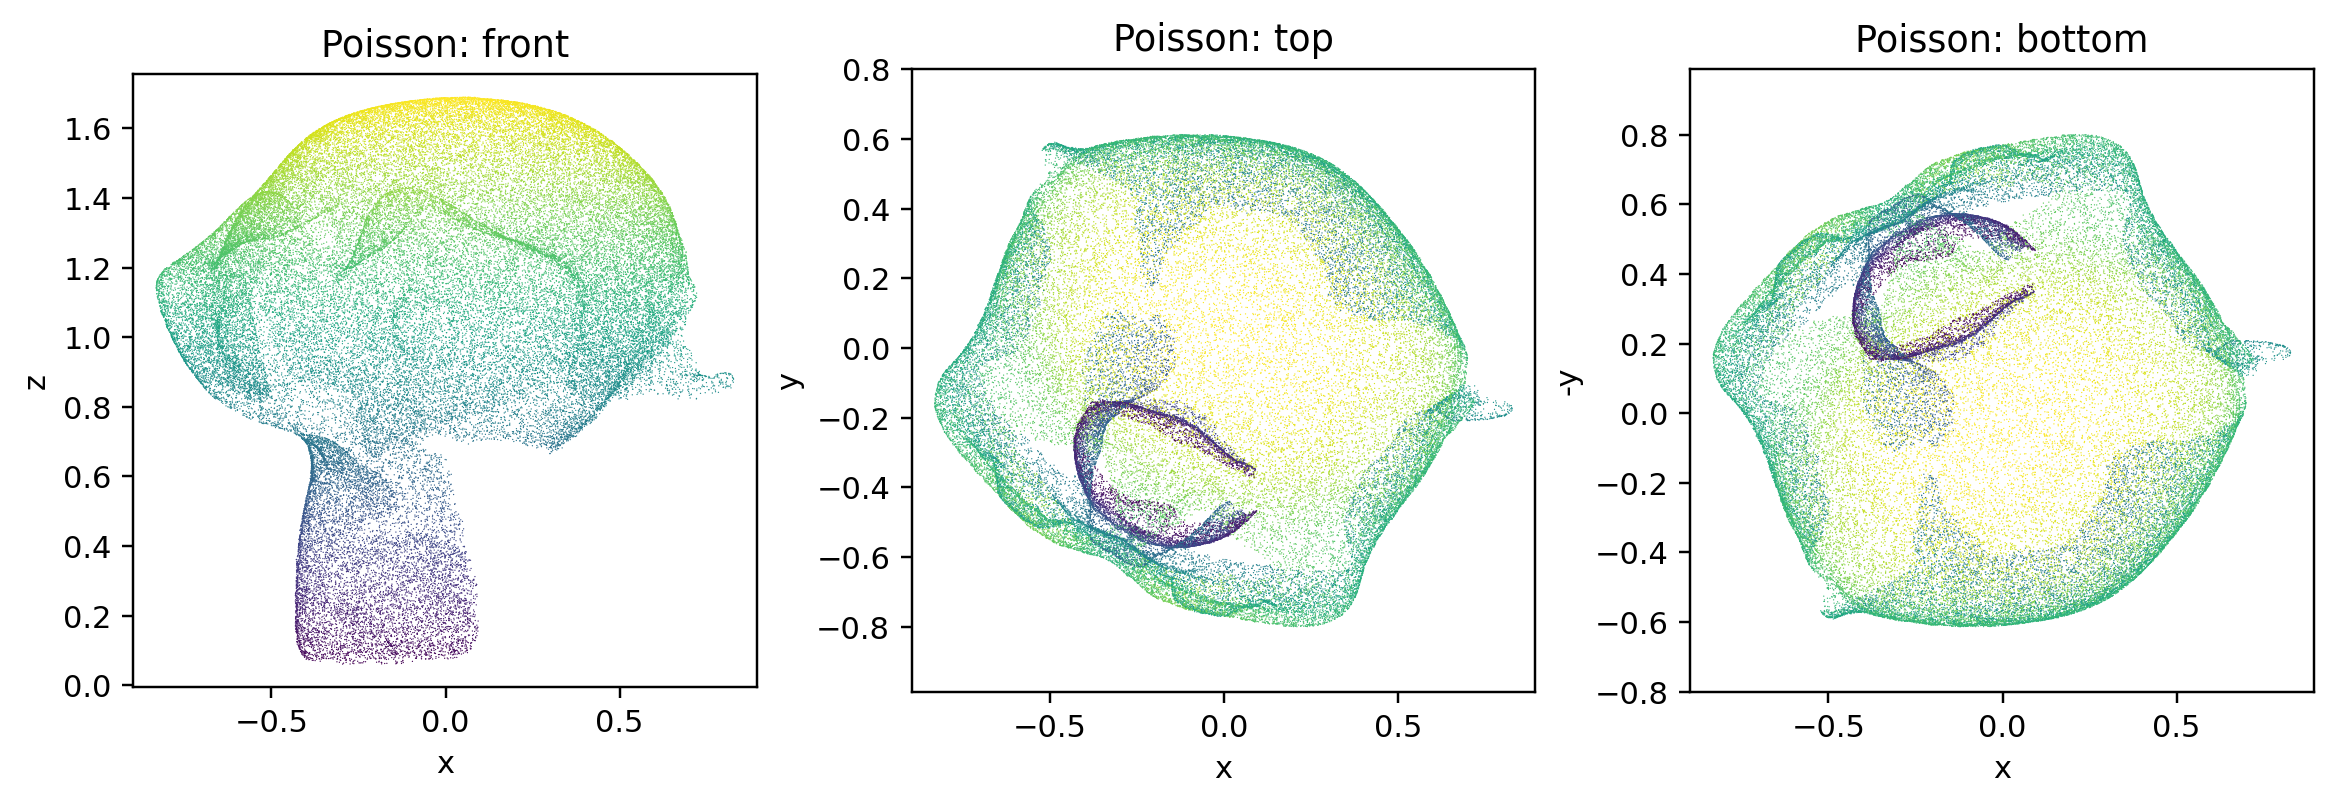
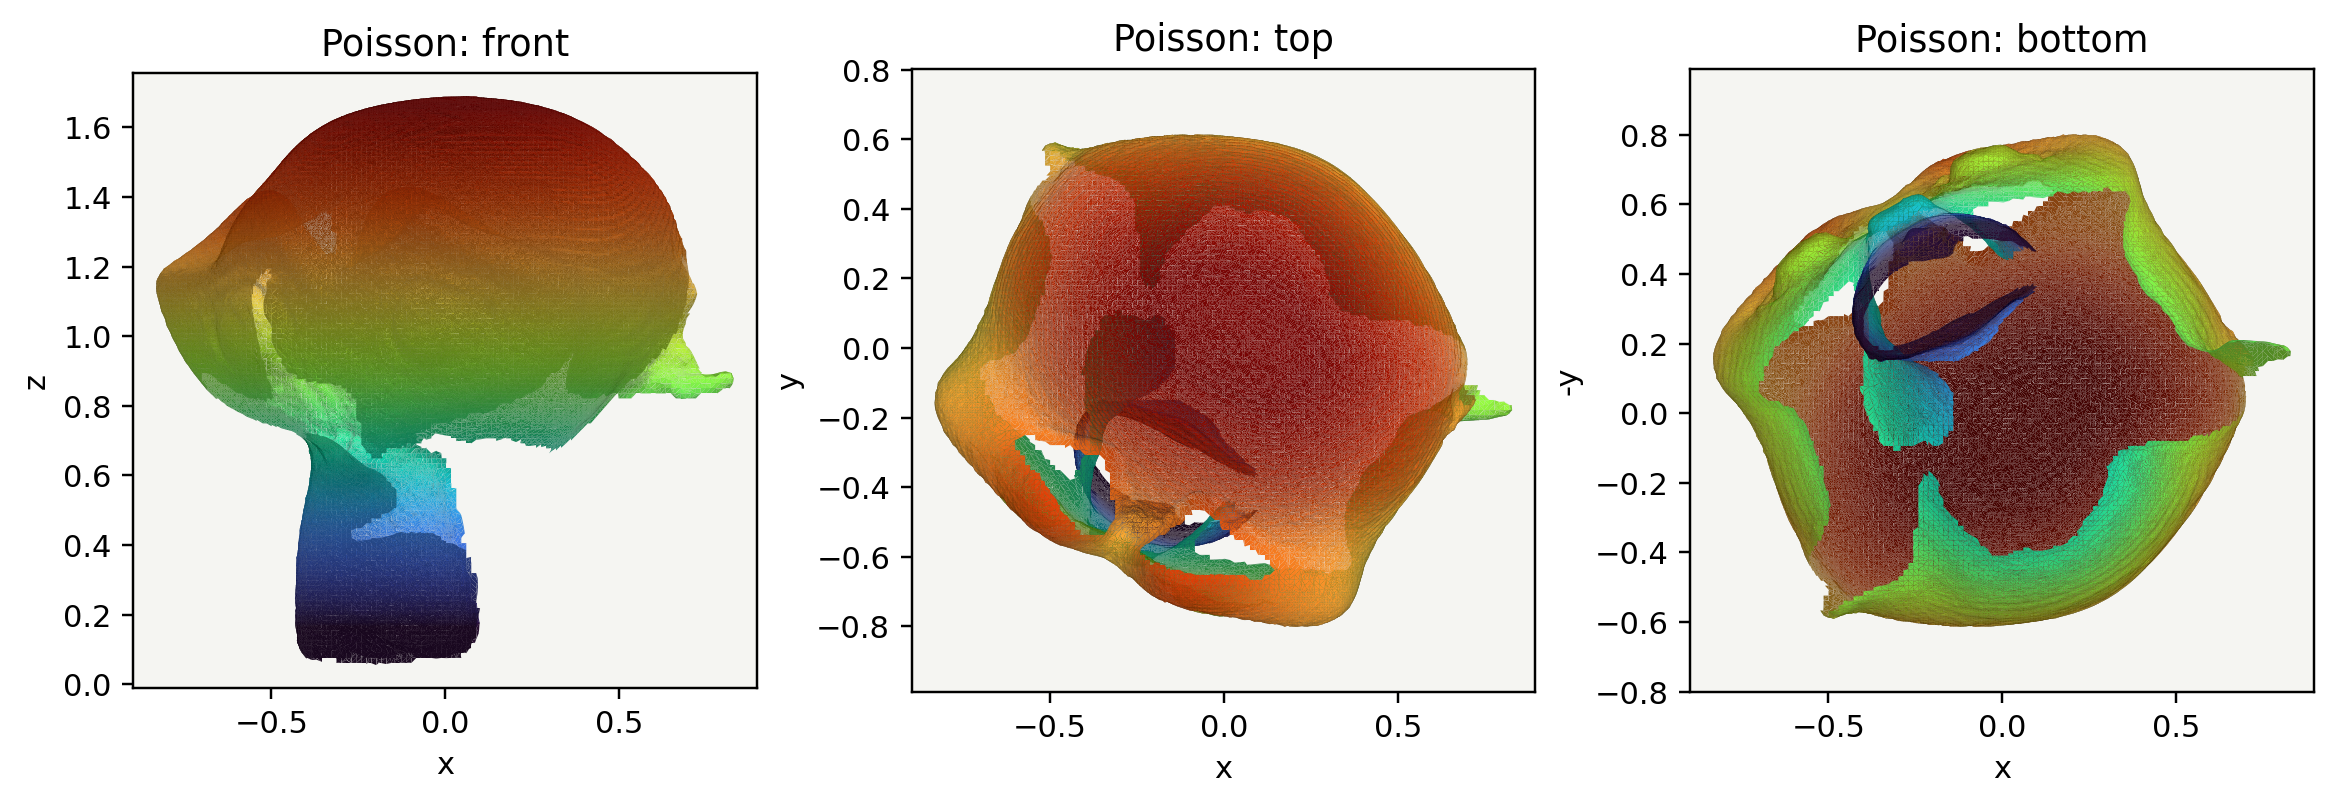
feat: upd script for views

diff --git a/scripts/generate_views.py b/scripts/generate_views.py
@@ -10,6 +10,7 @@ if str(REPO_ROOT) not in sys.path:
 import matplotlib.pyplot as plt
 import numpy as np
 import open3d as o3d
+from matplotlib.collections import PolyCollection
 
 from reconstruct import apply_config_defaults
 
@@ -52,16 +53,27 @@ def parse_args():
         help="Directory for PNGs. Defaults to <output_dir>/mesh_views_<dataset>.",
     )
     parser.add_argument(
-        "--points",
+        "--max-faces",
         type=int,
-        default=60000,
-        help="Number of mesh surface samples used for each render.",
+        default=200000,
+        help="Simplify meshes above this triangle count before rendering. Use 0 to disable.",
     )
     parser.add_argument(
         "--dpi",
         type=int,
         default=220,
         help="Output image DPI.",
+    )
+    parser.add_argument(
+        "--color-by",
+        choices=["height", "view-depth", "normal"],
+        default="height",
+        help="How to color mesh faces.",
+    )
+    parser.add_argument(
+        "--cmap",
+        default="turbo",
+        help="Matplotlib colormap used for height/view-depth coloring.",
     )
     parser.add_argument(
         "--separate-views",
@@ -77,16 +89,23 @@ def method_mesh_path(paths, method):
     return base.with_name(base.stem + suffix + base.suffix)
 
 
-def sample_mesh_points(mesh_path, count):
+def load_mesh_arrays(mesh_path, max_faces):
     mesh = o3d.io.read_triangle_mesh(str(mesh_path))
     if mesh.is_empty():
         raise ValueError(f"Could not read a mesh from {mesh_path}")
     if not mesh.has_triangles():
         raise ValueError(f"Mesh has no triangles: {mesh_path}")
 
+    if max_faces > 0 and len(mesh.triangles) > max_faces:
+        mesh = mesh.simplify_quadric_decimation(target_number_of_triangles=max_faces)
+
     mesh.compute_vertex_normals()
-    sampled = mesh.sample_points_uniformly(number_of_points=count)
-    return np.asarray(sampled.points, dtype=np.float64)
+    mesh.compute_triangle_normals()
+    return (
+        np.asarray(mesh.vertices, dtype=np.float64),
+        np.asarray(mesh.triangles, dtype=np.int64),
+        np.asarray(mesh.triangle_normals, dtype=np.float64),
+    )
 
 
 def equal_limits(values, pad=0.04):
@@ -101,10 +120,10 @@ def equal_limits(values, pad=0.04):
     return (lo - margin, hi + margin)
 
 
-def view_specs(points):
-    x_limits = equal_limits(points[:, 0])
-    y_limits = equal_limits(points[:, 1])
-    z_limits = equal_limits(points[:, 2])
+def view_specs(vertices):
+    x_limits = equal_limits(vertices[:, 0])
+    y_limits = equal_limits(vertices[:, 1])
+    z_limits = equal_limits(vertices[:, 2])
     xy_span = max(x_limits[1] - x_limits[0], y_limits[1] - y_limits[0])
     xy_center = (
         (x_limits[0] + x_limits[1]) * 0.5,
@@ -116,14 +135,97 @@ def view_specs(points):
     )
     bottom_y_limits = (-xy_limits[1][1], -xy_limits[1][0])
     return [
-        ("front", points[:, 0], points[:, 2], "x", "z", x_limits, z_limits),
-        ("top", points[:, 0], points[:, 1], "x", "y", xy_limits[0], xy_limits[1]),
-        ("bottom", points[:, 0], -points[:, 1], "x", "-y", xy_limits[0], bottom_y_limits),
+        ("front", "x", "z", x_limits, z_limits),
+        ("top", "x", "y", xy_limits[0], xy_limits[1]),
+        ("bottom", "x", "-y", xy_limits[0], bottom_y_limits),
     ]
 
 
-def draw_view(ax, title, x_values, y_values, color_values, x_label, y_label, x_lim, y_lim):
-    ax.scatter(x_values, y_values, c=color_values, s=0.18, cmap="viridis", linewidths=0)
+def project_vertices(vertices, view_name):
+    if view_name == "front":
+        return vertices[:, 0], vertices[:, 2], vertices[:, 1]
+    if view_name == "top":
+        return vertices[:, 0], vertices[:, 1], vertices[:, 2]
+    if view_name == "bottom":
+        return vertices[:, 0], -vertices[:, 1], -vertices[:, 2]
+    raise ValueError(f"Unknown view: {view_name}")
+
+
+def view_light_direction(view_name):
+    if view_name == "front":
+        return np.array([0.2, -0.7, 0.7], dtype=np.float64)
+    if view_name == "top":
+        return np.array([0.2, 0.2, 1.0], dtype=np.float64)
+    if view_name == "bottom":
+        return np.array([0.2, -0.2, -1.0], dtype=np.float64)
+    raise ValueError(f"Unknown view: {view_name}")
+
+
+def normalized(values):
+    lo, hi = np.percentile(values, [2.0, 98.0])
+    if hi <= lo:
+        lo = float(np.min(values))
+        hi = float(np.max(values))
+    if hi <= lo:
+        return np.full_like(values, 0.5, dtype=np.float64)
+    return np.clip((values - lo) / (hi - lo), 0.0, 1.0)
+
+
+def get_cmap(name):
+    try:
+        return plt.get_cmap(name)
+    except ValueError:
+        return plt.get_cmap("viridis")
+
+
+def face_colors(vertices, triangles, normals, depths, view_name, color_by, cmap_name):
+    light = view_light_direction(view_name)
+    light /= np.linalg.norm(light)
+    diffuse = np.clip(normals @ light, 0.0, 1.0)
+    shade = 0.55 + 0.45 * diffuse
+
+    if color_by == "normal":
+        colors = np.abs(normals)
+    else:
+        if color_by == "view-depth":
+            scalars = depths
+        else:
+            scalars = np.mean(vertices[:, 2][triangles], axis=1)
+        colors = get_cmap(cmap_name)(normalized(scalars))[:, :3]
+
+    colors *= shade[:, None]
+    return np.clip(colors, 0.0, 1.0)
+
+
+def draw_view(
+    ax,
+    title,
+    vertices,
+    triangles,
+    normals,
+    view_name,
+    x_label,
+    y_label,
+    x_lim,
+    y_lim,
+    color_by,
+    cmap_name,
+):
+    x_values, y_values, depths = project_vertices(vertices, view_name)
+    face_depths = np.mean(depths[triangles], axis=1)
+    order = np.argsort(face_depths)
+    polygons = np.stack((x_values[triangles], y_values[triangles]), axis=-1)[order]
+    colors = face_colors(vertices, triangles, normals, face_depths, view_name, color_by, cmap_name)[order]
+
+    collection = PolyCollection(
+        polygons,
+        facecolors=colors,
+        edgecolors=(0.02, 0.02, 0.02, 0.08),
+        linewidths=0.05,
+        closed=True,
+    )
+    ax.add_collection(collection)
+    ax.set_facecolor("#f5f5f2")
     ax.set_title(title)
     ax.set_xlabel(x_label)
     ax.set_ylabel(y_label)
@@ -133,41 +235,65 @@ def draw_view(ax, title, x_values, y_values, color_values, x_label, y_label, x_l
     ax.grid(False)
 
 
-def save_method_panel(points, method_label, output_path, dpi):
-    specs = view_specs(points)
+def save_method_panel(
+    vertices,
+    triangles,
+    normals,
+    method_label,
+    output_path,
+    dpi,
+    color_by,
+    cmap_name,
+):
+    specs = view_specs(vertices)
     fig, axes = plt.subplots(1, 3, figsize=(10.5, 3.6), constrained_layout=True)
-    color_values = points[:, 2]
-    for ax, (view_name, x_values, y_values, x_label, y_label, x_lim, y_lim) in zip(axes, specs):
+    for ax, (view_name, x_label, y_label, x_lim, y_lim) in zip(axes, specs):
         draw_view(
             ax,
             f"{method_label}: {view_name}",
-            x_values,
-            y_values,
-            color_values,
+            vertices,
+            triangles,
+            normals,
+            view_name,
             x_label,
             y_label,
             x_lim,
             y_lim,
+            color_by,
+            cmap_name,
         )
     fig.savefig(output_path, dpi=dpi, bbox_inches="tight")
     plt.close(fig)
 
 
-def save_separate_views(points, method_label, output_dir, dataset_name, method, dpi):
-    specs = view_specs(points)
-    color_values = points[:, 2]
-    for view_name, x_values, y_values, x_label, y_label, x_lim, y_lim in specs:
+def save_separate_views(
+    vertices,
+    triangles,
+    normals,
+    method_label,
+    output_dir,
+    dataset_name,
+    method,
+    dpi,
+    color_by,
+    cmap_name,
+):
+    specs = view_specs(vertices)
+    for view_name, x_label, y_label, x_lim, y_lim in specs:
         fig, ax = plt.subplots(figsize=(4.2, 4.2), constrained_layout=True)
         draw_view(
             ax,
             f"{method_label}: {view_name}",
-            x_values,
-            y_values,
-            color_values,
+            vertices,
+            triangles,
+            normals,
+            view_name,
             x_label,
             y_label,
             x_lim,
             y_lim,
+            color_by,
+            cmap_name,
         )
         out_path = output_dir / f"{dataset_name}_{method}_{view_name}.png"
         fig.savefig(out_path, dpi=dpi, bbox_inches="tight")
@@ -190,14 +316,34 @@ def render_dataset(root_config, dataset_name, args):
             print(f"{method}: missing mesh, skipping: {mesh_path}")
             continue
 
-        points = sample_mesh_points(mesh_path, args.points)
+        vertices, triangles, normals = load_mesh_arrays(mesh_path, args.max_faces)
         label = METHOD_LABELS[method]
         out_path = output_dir / f"{dataset_name}_{method}_front_top_bottom.png"
-        save_method_panel(points, label, out_path, args.dpi)
+        save_method_panel(
+            vertices,
+            triangles,
+            normals,
+            label,
+            out_path,
+            args.dpi,
+            args.color_by,
+            args.cmap,
+        )
         print(f"saved: {out_path}")
 
         if args.separate_views:
-            save_separate_views(points, label, output_dir, dataset_name, method, args.dpi)
+            save_separate_views(
+                vertices,
+                triangles,
+                normals,
+                label,
+                output_dir,
+                dataset_name,
+                method,
+                args.dpi,
+                args.color_by,
+                args.cmap,
+            )
 
 
 def main():
